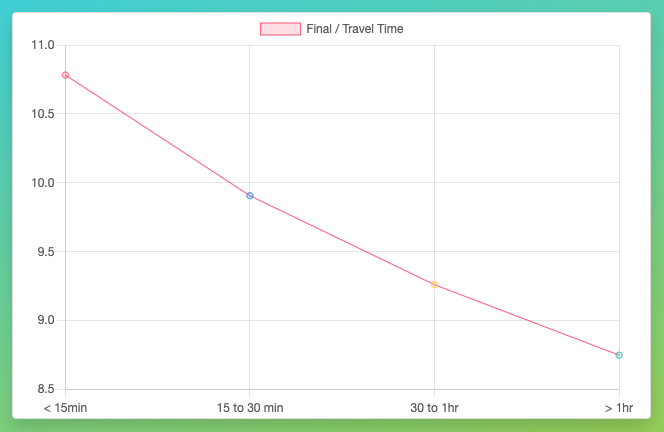
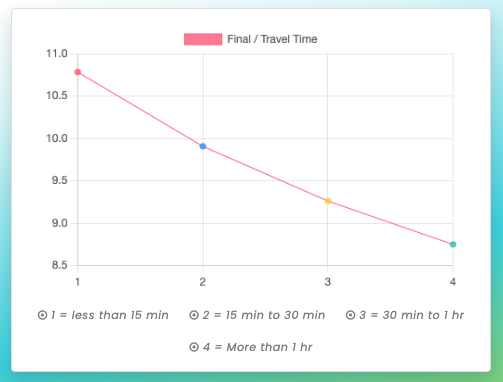
added new chart

diff --git a/src/components/healthchart/HealthChart.js b/src/components/healthchart/HealthChart.js
@@ -14,28 +14,28 @@ const HealthChart = () => {
   const [labels3, setLabels3] = useState([]);
 
   useEffect(() => {
-    // fetch("http://127.0.0.1:8000/health")
-    //   .then((res) => res.json())
-    //   .then(
-    //     (result) => {
-    //       console.log("GOT IT", result);
-    //       setLabels(result.labels);
-    //       setValues(result.values);
-    //       // setLabels2(result.labels2);
-    //       setValues2(result.values2);
-    //       // setLabels3(result.labels3);
-    //       setValues3(result.values3);
-    //       setLoading(false);
-    //     },
-    //     (error) => {
-    //       console.log("error", error);
-    //     }
-    //   );
+    fetch("http://127.0.0.1:8000/health")
+      .then((res) => res.json())
+      .then(
+        (result) => {
+          console.log("GOT IT", result);
+          setLabels(result.labels);
+          setValues(result.values);
+          // setLabels2(result.labels2);
+          setValues2(result.values2);
+          // setLabels3(result.labels3);
+          setValues3(result.values3);
+          setLoading(false);
+        },
+        (error) => {
+          console.log("error", error);
+        }
+      );
   }, []);
 
-  // if (loading) {
-  //   return <Loading />;
-  // }
+  if (loading) {
+    return <Loading />;
+  }
   // console.log(values);
   // console.log(labels);
   // console.log(values2);
@@ -62,7 +62,7 @@ const HealthChart = () => {
                   datasets: [
                     {
                       label: "G1 / Health",
-                      // data: values,
+                      data: values,
                       backgroundColor: [
                         "rgba(255, 99, 132, 0.8)",
                         "rgba(54, 162, 235, 0.8)",
@@ -81,7 +81,7 @@ const HealthChart = () => {
                     },
                     {
                       label: "G2 / Health",
-                      // data: values2,
+                      data: values2,
                       backgroundColor: [
                         "rgba(200, 50, 115, 0.8)",
                         "rgba(54, 90, 235, 0.8)",
@@ -101,7 +101,7 @@ const HealthChart = () => {
                     },
                     {
                       label: "Final / Health",
-                      // data: values3,
+                      data: values3,
                       backgroundColor: [
                         "rgba(230, 13, 132, 0.8)",
                         "rgba(74, 90, 255, 0.8)",

diff --git a/src/components/famSchoolSup/FamSchoolSupChart.js b/src/components/famSchoolSup/FamSchoolSupChart.js
@@ -12,27 +12,27 @@ const FamSchoolSupChart = () => {
   const [labelsSchoolSup, setLabelsSchoolSup] = useState([]);
   const [valuesSchoolSup, setValuesSchoolSup] = useState([]);
 
-  // useEffect(() => {
-  //   fetch("http://127.0.0.1:8000/famschoolsup")
-  //     .then((res) => res.json())
-  //     .then(
-  //       (result) => {
-  //         console.log("GOT IT", result);
-  //         setLabelsFamSup(result.labelsFamSup);
-  //         setValuesFamSup(result.valuesFamSup);
-  //         setLabelsSchoolSup(result.labelsSchoolSup);
-  //         setValuesSchoolSup(result.valuesSchoolSup);
-  //         setLoading(false);
-  //       },
-  //       (error) => {
-  //         console.log("error", error);
-  //       }
-  //     );
-  // }, []);
+  useEffect(() => {
+    fetch("http://127.0.0.1:8000/famschoolsup")
+      .then((res) => res.json())
+      .then(
+        (result) => {
+          console.log("GOT IT", result);
+          setLabelsFamSup(result.labelsFamSup);
+          setValuesFamSup(result.valuesFamSup);
+          setLabelsSchoolSup(result.labelsSchoolSup);
+          setValuesSchoolSup(result.valuesSchoolSup);
+          setLoading(false);
+        },
+        (error) => {
+          console.log("error", error);
+        }
+      );
+  }, []);
 
-  // if (loading) {
-  //   return <Loading />;
-  // }
+  if (loading) {
+    return <Loading />;
+  }
   // console.log(valuesFamSup);
   // console.log(labelsFamSup);
   // console.log(valuesSchoolSup);
@@ -54,11 +54,11 @@ const FamSchoolSupChart = () => {
               <Bar
                 className="base_chart"
                 data={{
-                  // labels: labelsFamSup,
+                  labels: labelsFamSup,
                   datasets: [
                     {
                       label: "Final / FamSuport",
-                      // data: valuesFamSup,
+                      data: valuesFamSup,
                       backgroundColor: [
                         "rgba(255, 99, 132, 0.8)",
                         "rgba(54, 162, 235, 0.8)",
@@ -71,7 +71,7 @@ const FamSchoolSupChart = () => {
                     },
                     {
                       label: "Final / SchoolSupport",
-                      // data: valuesSchoolSup,
+                      data: valuesSchoolSup,
                       backgroundColor: [
                         "rgba(255, 99, 132, 0.8)",
                         "rgba(54, 162, 235, 0.8)",

diff --git a/src/components/internetchart/InternetChart.js b/src/components/internetchart/InternetChart.js
@@ -3,29 +3,28 @@ import { Pie } from "react-chartjs-2";
 import Loading from "../loading/Loading";
 
 const InternetChart = () => {
-  // const [loading, setLoading] = useState(true);
-  // const [values, setValues] = useState([]);
-  // const [labels, setLabels] = useState([]);
+  const [loading, setLoading] = useState(true);
+  const [values, setValues] = useState([]);
+  const [labels, setLabels] = useState([]);
 
-  // useEffect(() => {
-  //   fetch("http://127.0.0.1:8000/internet")
-  //     .then((res) => res.json())
-  //     .then(
-  //       (result) => {
-  //         setLabels(result.labels);
-  //         setValues(result.values);
-  //         setLoading(false);
-  //       },
-  //       (error) => {
-  //         console.log("error", error);
-  //       }
-  //     );
+  useEffect(() => {
+    fetch("http://127.0.0.1:8000/internet")
+      .then((res) => res.json())
+      .then(
+        (result) => {
+          setLabels(result.labels);
+          setValues(result.values);
+          setLoading(false);
+        },
+        (error) => {
+          console.log("error", error);
+        }
+      );
+  }, []);
 
-  // }, []);
-
-  // if (loading) {
-  //   return <Loading />;
-  // }
+  if (loading) {
+    return <Loading />;
+  }
 
   return (
     <>
@@ -42,11 +41,11 @@ const InternetChart = () => {
               <Pie
                 className="base_chart"
                 data={{
-                  // labels: labels,
+                  labels: labels,
                   datasets: [
                     {
                       label: "Internet access",
-                      // data: values,
+                      data: values,
                       backgroundColor: [
                         "rgba(255, 99, 132, 0.8)",
                         "rgba(54, 162, 235, 0.8)",

diff --git a/src/components/traveltime/TravelTime.js b/src/components/traveltime/TravelTime.js
@@ -9,28 +9,25 @@ const TravelTimeChart = () => {
   const [values, setValues] = useState([]);
   const [labels, setLabels] = useState([]);
 
-  // useEffect(() => {
-  //   fetch("http://127.0.0.1:8000/traveltime")
-  //     .then((res) => res.json())
-  //     .then(
-  //       (result) => {
-  //         console.log("GOT IT", result);
-  //         setLabels(result.labels);
-  //         setValues(result.values);
-  //         // setLoading(false);
-  //       },
-  //       (error) => {
-  //         console.log("error", error);
-  //       }
-  //     );
-  //   setTimeout(() => {
-  //     setLoading(false);
-  //   }, 2000);
-  // }, []);
+  useEffect(() => {
+    fetch("http://127.0.0.1:8000/traveltime")
+      .then((res) => res.json())
+      .then(
+        (result) => {
+          console.log("GOT IT", result);
+          setLabels(result.labels);
+          setValues(result.values);
+          setLoading(false);
+        },
+        (error) => {
+          console.log("error", error);
+        }
+      );
+  }, []);
 
-  // if (loading) {
-  //   return <Loading />;
-  // }
+  if (loading) {
+    return <Loading />;
+  }
   // console.log(values);
   // console.log(labels);
 
@@ -66,11 +63,11 @@ const TravelTimeChart = () => {
               <Line
                 className="base_chart"
                 data={{
-                  // labels: labels,
+                  labels: labels,
                   datasets: [
                     {
                       label: "Final / Travel Time",
-                      // data: values,
+                      data: values,
                       backgroundColor: [
                         "rgba(255, 99, 132, 0.8)",
                         "rgba(54, 162, 235, 0.8)",

diff --git a/src/components/statsOptions/statsOptions.css b/src/components/statsOptions/statsOptions.css
@@ -41,8 +41,10 @@
 }
 
 .imagen_chart {
-  width: 60%;
+  width: 300px;
+  height: 200px;
 }
 .imagen_chart img {
   width: 100%;
+  height: 100%;
 }
